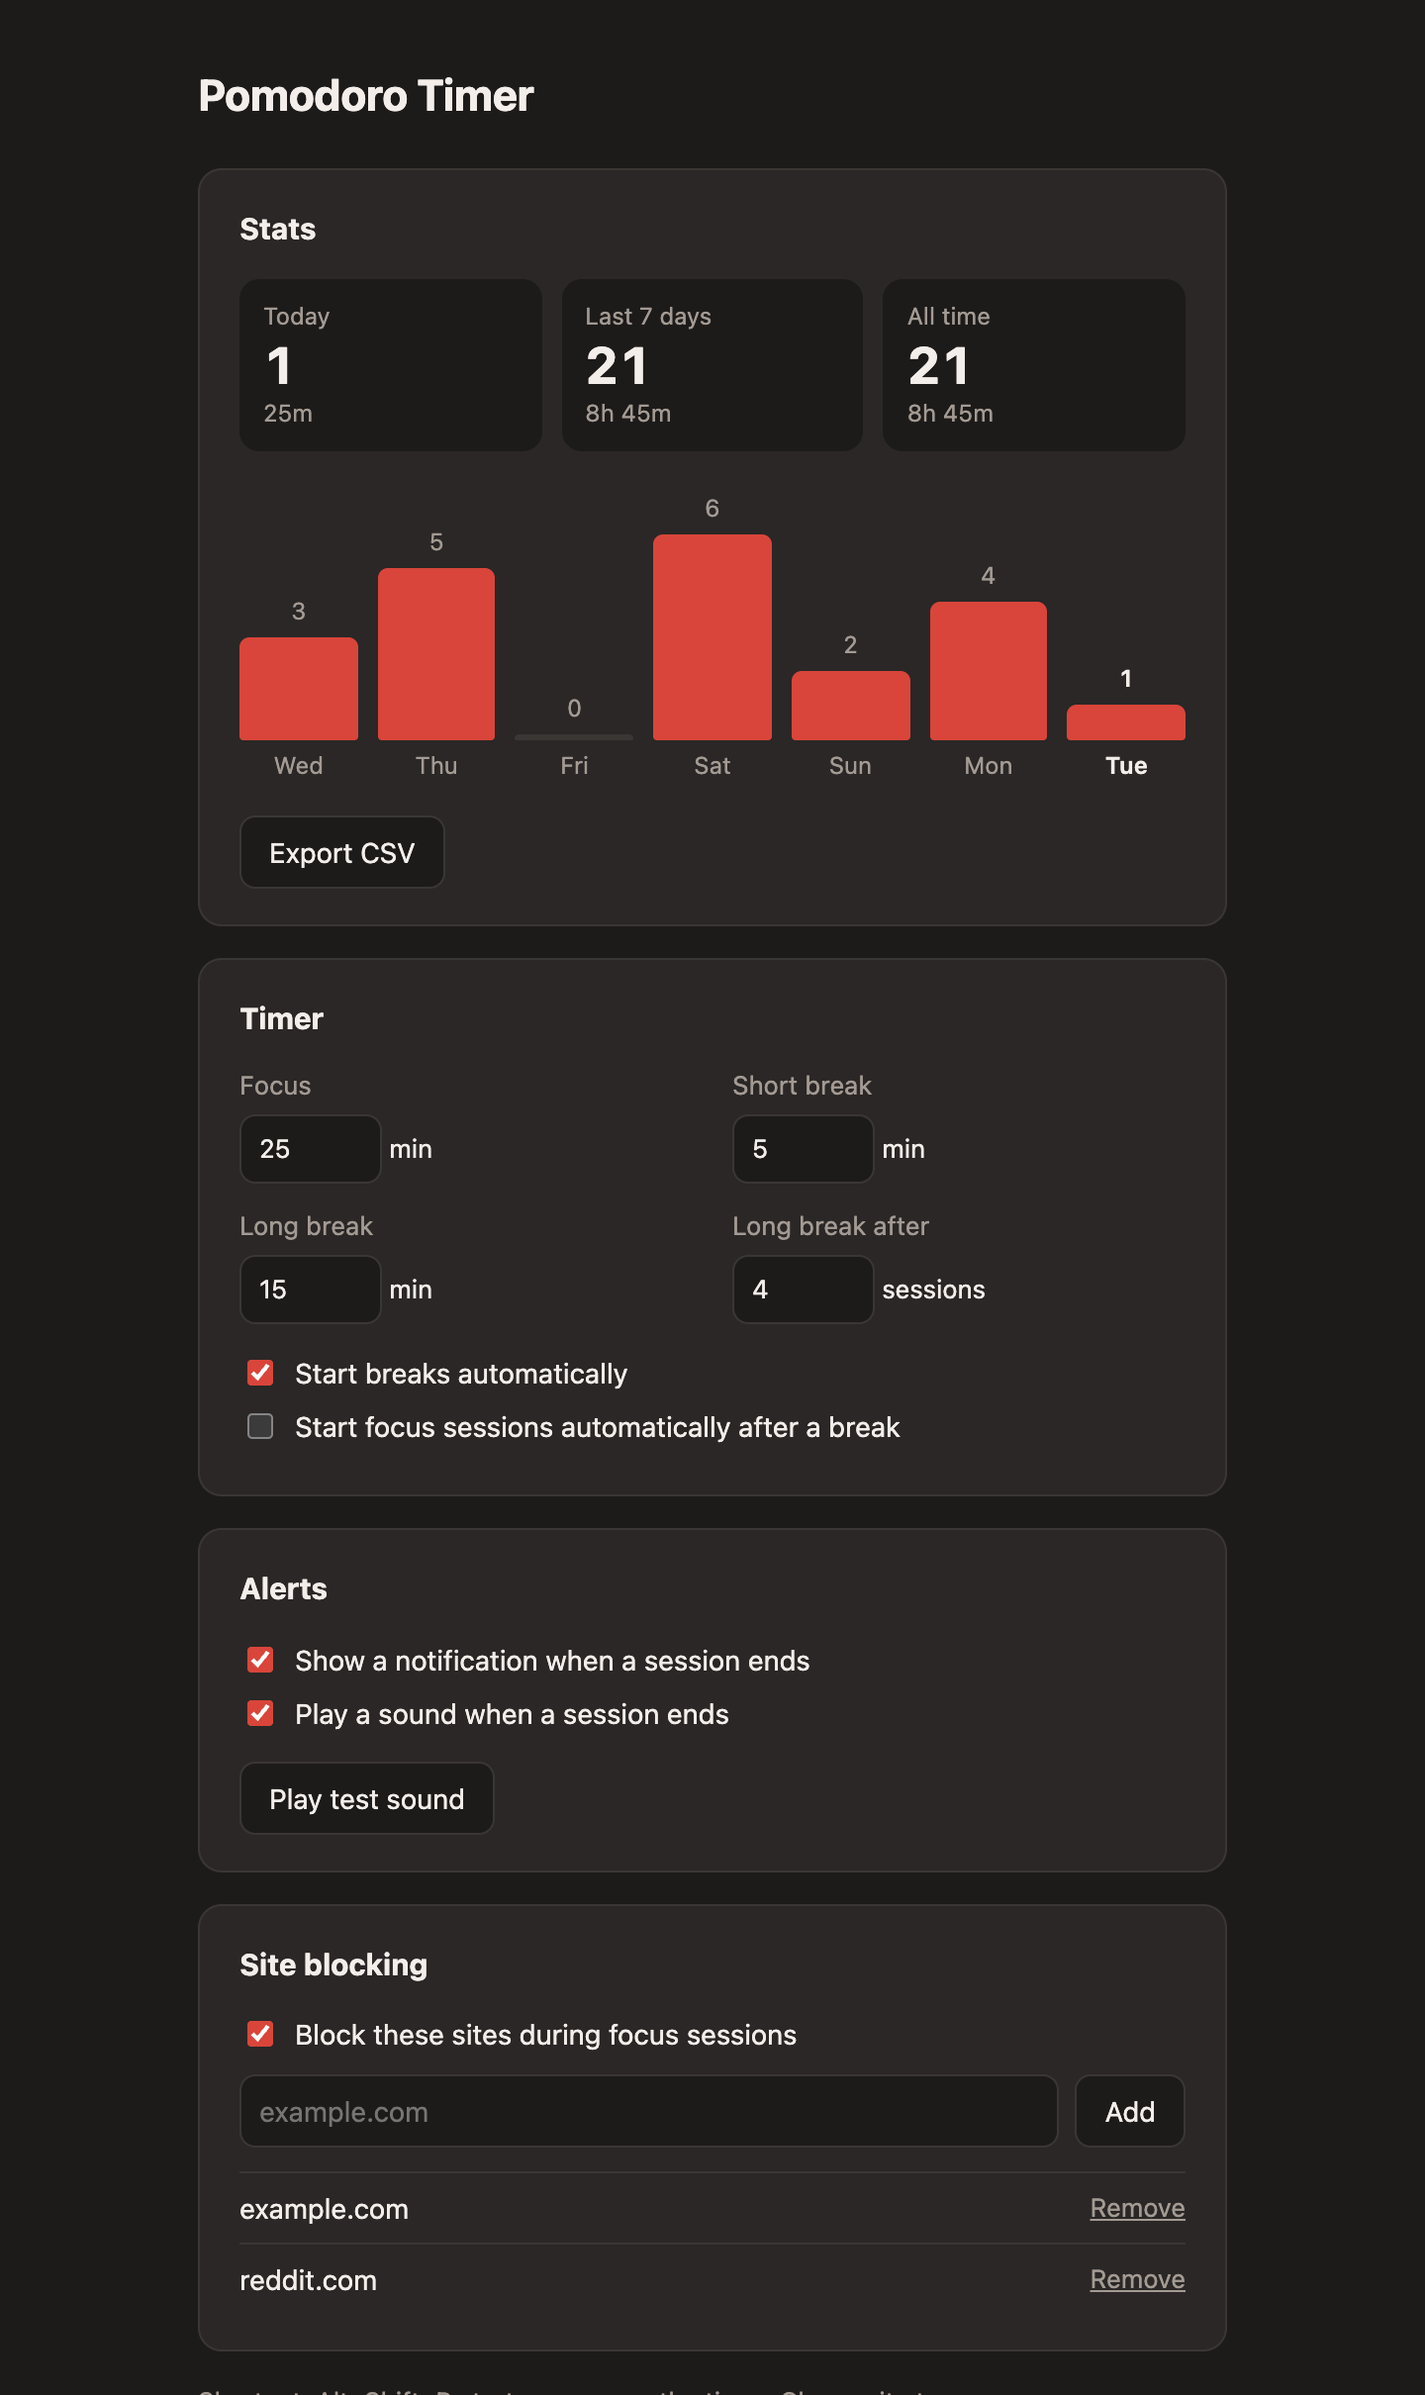
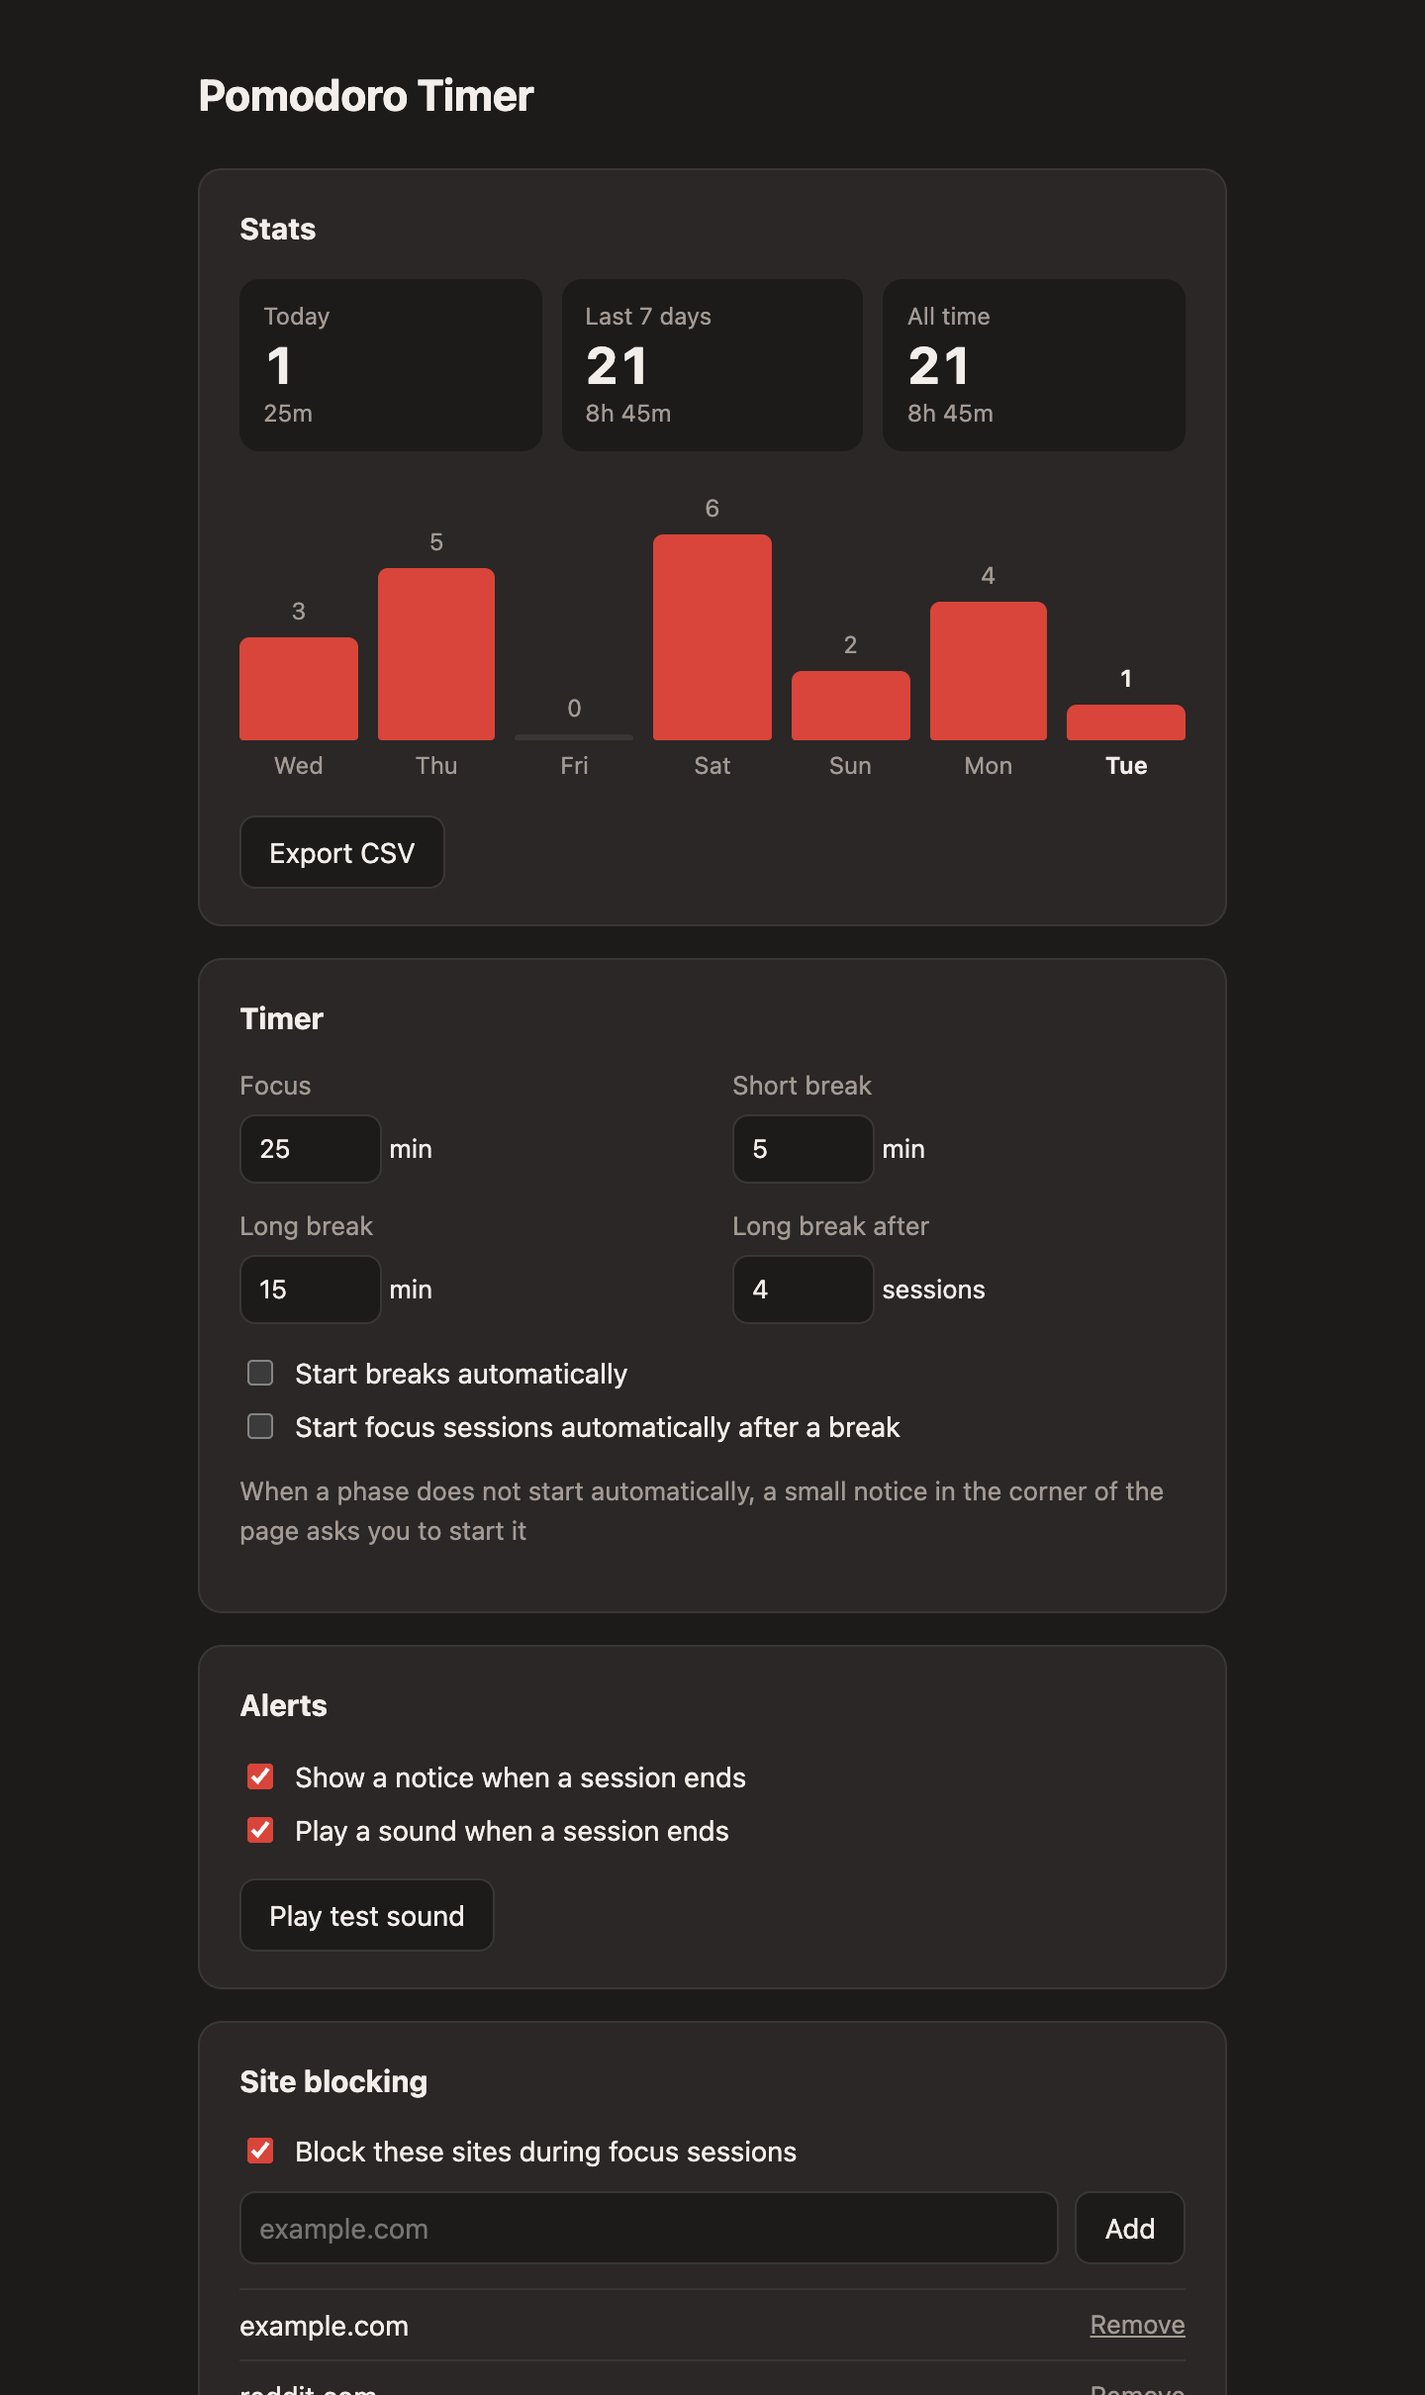
feat: wait for the user between phases and show a corner notice

diff --git a/background.js b/background.js
@@ -34,6 +34,7 @@ async function sync(state) {
     // Fires each time the minute shown on the badge changes.
     chrome.alarms.create('tick', { when: Date.now() + (rem % 60000 || 60000), periodInMinutes: 1 });
   }
+  if (!state.waiting) chrome.notifications.clear('pomodoro');
   await updateBadge(state);
   await updateBlocking(state, await getSettings());
 }
@@ -42,6 +43,7 @@ async function updateBadge(state) {
   let text = '';
   if (state.status === 'running') text = String(Math.ceil(remainingMs(state) / 60000));
   if (state.status === 'paused') text = 'II';
+  if (state.waiting) text = '!';
   await chrome.action.setBadgeText({ text });
   await chrome.action.setBadgeBackgroundColor({ color: PHASES[state.phase].colour });
   await chrome.action.setBadgeTextColor({ color: '#ffffff' });
@@ -63,10 +65,14 @@ async function advance(state, completed) {
     done = 0;
   }
   const auto = next === 'focus' ? settings.autoFocus : settings.autoBreak;
-  await commit(fresh(next, settings, done, auto));
+  const nextState = fresh(next, settings, done, auto);
+  // `waiting` marks a finished phase whose successor needs the user's go-ahead.
+  if (completed && !auto) nextState.waiting = { finished: state.phase, minutes: Math.round(state.total / 60000) };
+  await commit(nextState);
   if (completed) {
-    if (settings.notify) notify(state.phase, next, settings, auto);
+    if (settings.notify) notify(nextState, settings);
     if (settings.sound) chime(state.phase);
+    toast(nextState);
   }
 }
 
@@ -88,17 +94,105 @@ async function recordSession(ms) {
   await chrome.storage.local.set({ stats });
 }
 
-function notify(finished, next, settings, auto) {
-  const breakLabel = `${settings[next]}-minute ${next === 'long' ? 'long ' : ''}break`;
-  const options = {
-    type: 'basic',
-    iconUrl: 'icons/icon128.png',
-    title: finished === 'focus' ? 'Focus session done' : 'Break over',
-    message: finished === 'focus' ? `Time for a ${breakLabel}.` : 'Ready for another focus session?',
-    priority: 2,
-  };
-  if (!auto) options.buttons = [{ title: next === 'focus' ? 'Start focus' : 'Start break' }];
+// Wording for the notice shown when a phase ends and the next one waits.
+function noticeText(state) {
+  const { finished, minutes } = state.waiting;
+  const next = Math.round(state.total / 60000);
+  const passed = `${minutes} ${minutes === 1 ? 'minute has' : 'minutes have'} passed.`;
+  if (finished !== 'focus') {
+    return { title: 'Break over', message: `${passed} Ready for another focus session?`, button: 'Start focus' };
+  }
+  const kind = state.phase === 'long' ? 'long break' : 'break';
+  return { title: 'Focus session done', message: `${passed} Time for a ${next}-minute ${kind}.`, button: `Start ${kind}` };
+}
+
+function notify(state, settings) {
+  const options = { type: 'basic', iconUrl: 'icons/icon128.png', priority: 2 };
+  if (state.waiting) {
+    const text = noticeText(state);
+    Object.assign(options, {
+      title: text.title,
+      message: `${text.message} Click to start.`,
+      buttons: [{ title: text.button }],
+      requireInteraction: true,
+    });
+  } else {
+    // The next phase has already started by itself.
+    const onBreak = state.phase !== 'focus';
+    options.title = onBreak ? 'Focus session done' : 'Break over';
+    options.message = onBreak
+      ? `Your ${settings[state.phase]}-minute ${state.phase === 'long' ? 'long ' : ''}break has started.`
+      : 'Your focus session has started.';
+  }
   chrome.notifications.clear('pomodoro', () => chrome.notifications.create('pomodoro', options));
+}
+
+// Runs inside the web page, so it cannot use anything defined outside itself.
+// Adds a small card in the top right corner with a button to start the next phase.
+function showToast(text, colour) {
+  if (document.getElementById('pomodoro-toast')) return;
+  const host = document.createElement('div');
+  host.id = 'pomodoro-toast';
+  const root = host.attachShadow({ mode: 'open' });
+  const sheet = new CSSStyleSheet();
+  sheet.replaceSync(`
+    :host { all: initial; position: fixed; top: 16px; right: 16px; z-index: 2147483647; }
+    .card {
+      width: 280px; padding: 14px 16px; border-radius: 12px; box-sizing: border-box;
+      background: #ffffff; color: #2a2623; border: 1px solid #ebe4de;
+      box-shadow: 0 6px 24px rgb(0 0 0 / 0.18);
+      font: 13px/1.4 -apple-system, BlinkMacSystemFont, "Segoe UI", Roboto, sans-serif;
+    }
+    strong { display: block; font-size: 14px; }
+    span { color: #857c75; }
+    .row { display: flex; gap: 8px; margin-top: 12px; }
+    button { flex: 1; padding: 7px 0; border-radius: 999px; font: inherit; cursor: pointer;
+      background: transparent; color: inherit; border: 1px solid #ebe4de; }
+    .start { background: ${colour}; border-color: ${colour}; color: #ffffff; font-weight: 600; }
+    @media (prefers-color-scheme: dark) {
+      .card { background: #2a2726; color: #f3eeea; border-color: #3a3634; }
+      span { color: #a39a93; }
+      button { border-color: #3a3634; }
+    }
+  `);
+  root.adoptedStyleSheets = [sheet];
+
+  const el = (tag, content, className) => {
+    const node = document.createElement(tag);
+    node.textContent = content;
+    if (className) node.className = className;
+    return node;
+  };
+  const card = el('div', '', 'card');
+  const row = el('div', '', 'row');
+  const later = el('button', 'Not now');
+  const start = el('button', text.button, 'start');
+  row.append(later, start);
+  card.append(el('strong', text.title), el('span', text.message), row);
+  root.append(card);
+  document.documentElement.append(host);
+
+  start.addEventListener('click', () => chrome.runtime.sendMessage({ cmd: 'start' }));
+  later.addEventListener('click', () => chrome.runtime.sendMessage({ cmd: 'dismiss' }));
+  // Disappear once the timer is started or the notice dismissed, from any tab.
+  chrome.storage.onChanged.addListener((changes) => {
+    if (changes.state && !changes.state.newValue?.waiting) host.remove();
+  });
+}
+
+// Show the card in the tab the user is looking at. Chrome's own pages refuse it.
+async function toast(state, tabId) {
+  if (!state.waiting || !(await getSettings()).notify) return;
+  if (tabId === undefined) {
+    const [tab] = await chrome.tabs.query({ active: true, lastFocusedWindow: true });
+    tabId = tab?.id;
+  }
+  if (tabId === undefined) return;
+  chrome.scripting.executeScript({
+    target: { tabId },
+    func: showToast,
+    args: [noticeText(state), PHASES[state.phase].colour],
+  }).catch(() => {});
 }
 
 // Service workers cannot play audio, so a short-lived offscreen page does it.
@@ -139,7 +233,7 @@ const actions = {
   async start() {
     const state = await getState();
     if (state.status === 'running') return;
-    await commit({ ...state, status: 'running', endTime: Date.now() + state.remaining });
+    await commit({ ...state, waiting: null, status: 'running', endTime: Date.now() + state.remaining });
   },
   async pause() {
     const state = await getState();
@@ -161,6 +255,9 @@ const actions = {
     if (!PHASES[phase]) return;
     const state = await getState();
     await commit(fresh(phase, await getSettings(), state.done));
+  },
+  async dismiss() {
+    await commit({ ...(await getState()), waiting: null });
   },
   async testSound() {
     await chime('focus');
@@ -184,13 +281,22 @@ chrome.commands.onCommand.addListener((command) => {
   if (command === 'toggle-timer') serial(actions.toggle);
 });
 
-chrome.notifications.onButtonClicked.addListener((id) => {
+// Clicking the notification or its button starts the phase that is waiting.
+const startFromNotification = (id) => {
   if (id !== 'pomodoro') return;
   chrome.notifications.clear(id);
-  serial(actions.start);
-});
+  serial(async () => {
+    if ((await getState()).waiting) await actions.start();
+  });
+};
+chrome.notifications.onClicked.addListener(startFromNotification);
+chrome.notifications.onButtonClicked.addListener(startFromNotification);
 
-chrome.notifications.onClicked.addListener((id) => chrome.notifications.clear(id));
+// Keep the card in view when the user switches tab or loads another page.
+chrome.tabs.onActivated.addListener(({ tabId }) => serial(async () => toast(await getState(), tabId)));
+chrome.tabs.onUpdated.addListener((tabId, info, tab) => {
+  if (info.status === 'complete' && tab.active) serial(async () => toast(await getState(), tabId));
+});
 
 // New durations apply at once to a timer that has not started.
 chrome.storage.onChanged.addListener((changes) => {

diff --git a/options.html b/options.html
@@ -30,11 +30,12 @@
       </div>
       <label class="check"><input type="checkbox" data-key="autoBreak"> Start breaks automatically</label>
       <label class="check"><input type="checkbox" data-key="autoFocus"> Start focus sessions automatically after a break</label>
+      <p class="note">When a phase does not start automatically, a small notice in the corner of the page asks you to start it</p>
     </section>
 
     <section>
       <h2>Alerts</h2>
-      <label class="check"><input type="checkbox" data-key="notify"> Show a notification when a session ends</label>
+      <label class="check"><input type="checkbox" data-key="notify"> Show a notice when a session ends</label>
       <label class="check"><input type="checkbox" data-key="sound"> Play a sound when a session ends</label>
       <button id="test-sound" class="secondary">Play test sound</button>
     </section>

diff --git a/shared.js b/shared.js
@@ -5,7 +5,7 @@ export const DEFAULTS = {
   short: 5,
   long: 15,
   longEvery: 4, // focus sessions before a long break
-  autoBreak: true,
+  autoBreak: false,
   autoFocus: false,
   sound: true,
   notify: true,

diff --git a/README.md b/README.md
@@ -13,7 +13,7 @@ A Chrome extension with a pomodoro timer, automatic breaks, daily stats and site
 - Focus, short break and long break phases (25, 5 and 15 minutes by default)
 - A long break after every 4 focus sessions
 - Minutes left on the toolbar icon
-- Notification and chime when a session ends
+- A notice with a start button and a chime when a session ends
 - Sessions per day, with a 7-day chart and CSV export
 - Optional blocking of chosen sites during focus sessions
 - Light and dark mode, following your system theme
@@ -65,7 +65,11 @@ Click the tomato icon to open the timer.
 - The tabs at the top switch between focus, short break and long break
 - The dots show how many focus sessions you have done before the next long break
 
-When a focus session ends, you get a notification and a chime, and the break starts by itself. After the break, the timer waits for you to start the next focus session.
+Nothing starts without you. When a focus session ends, you hear a chime and a small notice appears in the top right corner of the page you are on. It tells you how many minutes have passed. Click "Start break" to begin the break, or "Not now" to hide the notice and start later from the popup. The same notice appears when a break ends, with a "Start focus" button.
+
+While the timer waits for you, the toolbar icon shows "!". You also get a system notification, which helps when Chrome is not the window in front. Clicking it starts the next phase.
+
+If you prefer breaks or focus sessions to start by themselves, tick the two "automatically" boxes in the settings.
 
 If your computer sleeps or Chrome is closed past the end of a session, that session is not counted. The timer waits at a new focus session.
 
@@ -77,7 +81,7 @@ Click "Stats and settings" at the bottom of the popup. There you can:
 - Click "Export CSV" to save every recorded day as a file (date, sessions, minutes)
 - Change the length of each phase and the number of sessions before a long break
 - Choose whether breaks and focus sessions start automatically
-- Turn the notification and the sound on or off
+- Turn the notice and the sound on or off
 
 Changes save as soon as you make them.
 
@@ -105,7 +109,8 @@ Open `chrome://extensions`, click "Remove" on the "Pomodoro Timer" card, then de
 | Problem | Fix |
 |---------|-----|
 | "Manifest file is missing or unreadable" | You selected the wrong folder. Pick the one that contains `manifest.json`. Some unzip tools create a second folder with the same name inside the first |
-| No notification when a session ends | Allow notifications for Chrome in your system settings. On macOS: System Settings, Notifications, Google Chrome |
+| No system notification | Allow notifications for Chrome in your system settings. On macOS: System Settings, Notifications, Google Chrome |
+| No notice in the corner of the page | Chrome does not allow it on its own pages, such as a new tab or `chrome://extensions`. Use the popup or the system notification there |
 | No sound | Check that "Play a sound when a session ends" is ticked, then click "Play test sound" |
 | A blocked site still opens | Blocking is active only during a focus session, and only if the tick box in settings is on |
 | The shortcut does nothing | Another extension may use it. Set a new one at `chrome://extensions/shortcuts` |
@@ -115,7 +120,7 @@ Open `chrome://extensions`, click "Remove" on the "Pomodoro Timer" card, then de
 
 Your settings and stats stay in your browser. The extension sends nothing over the internet.
 
-Chrome lists the permission "Read and change all your data on all websites". Site blocking needs it to redirect the sites on your list. The extension checks tab addresses against that list and does not read page content.
+Chrome lists the permission "Read and change all your data on all websites". The extension uses it for two things: site blocking redirects the sites on your list, and the end-of-session notice is drawn in the corner of the page you are on. It checks tab addresses against your list and does not read page content.
 
 ## Files
 
